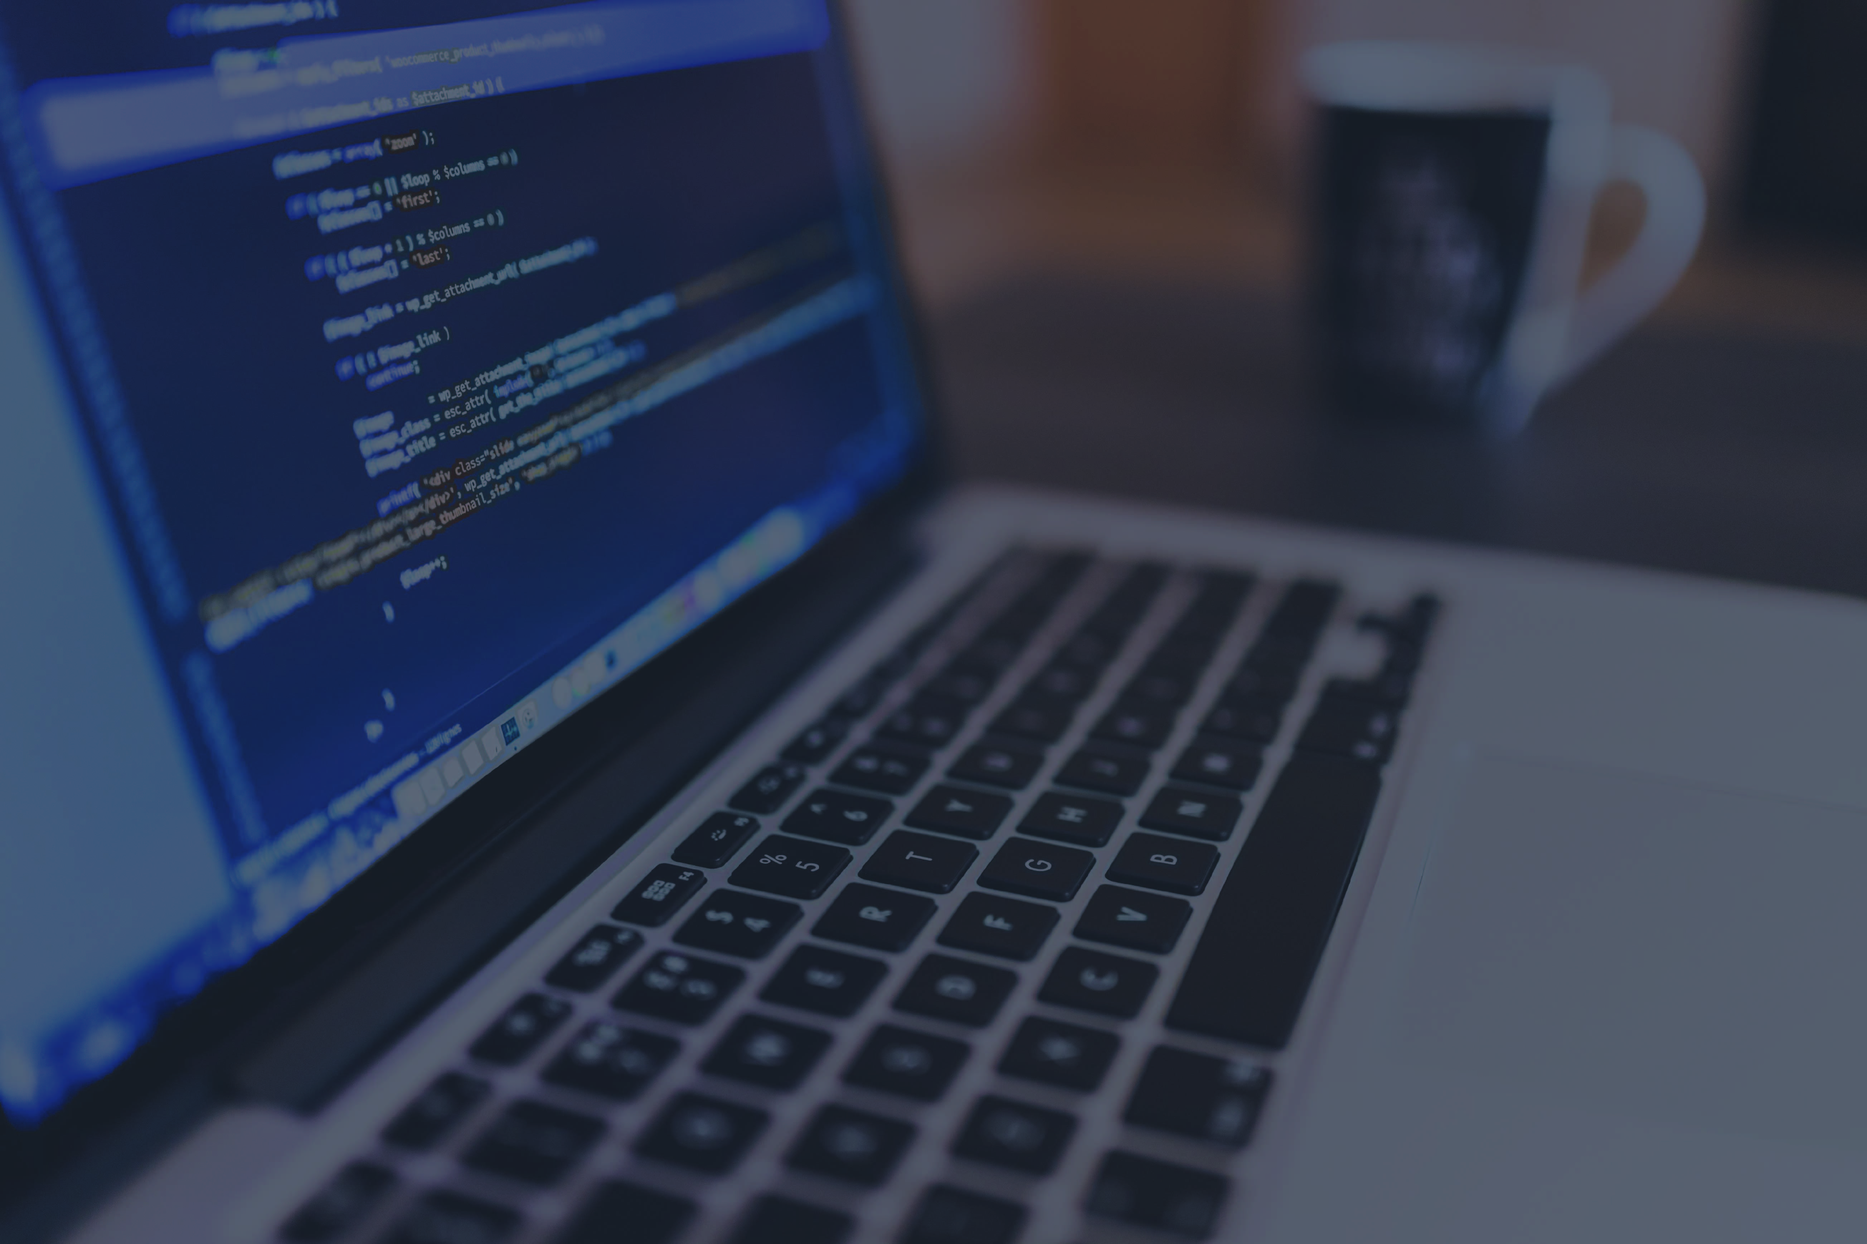
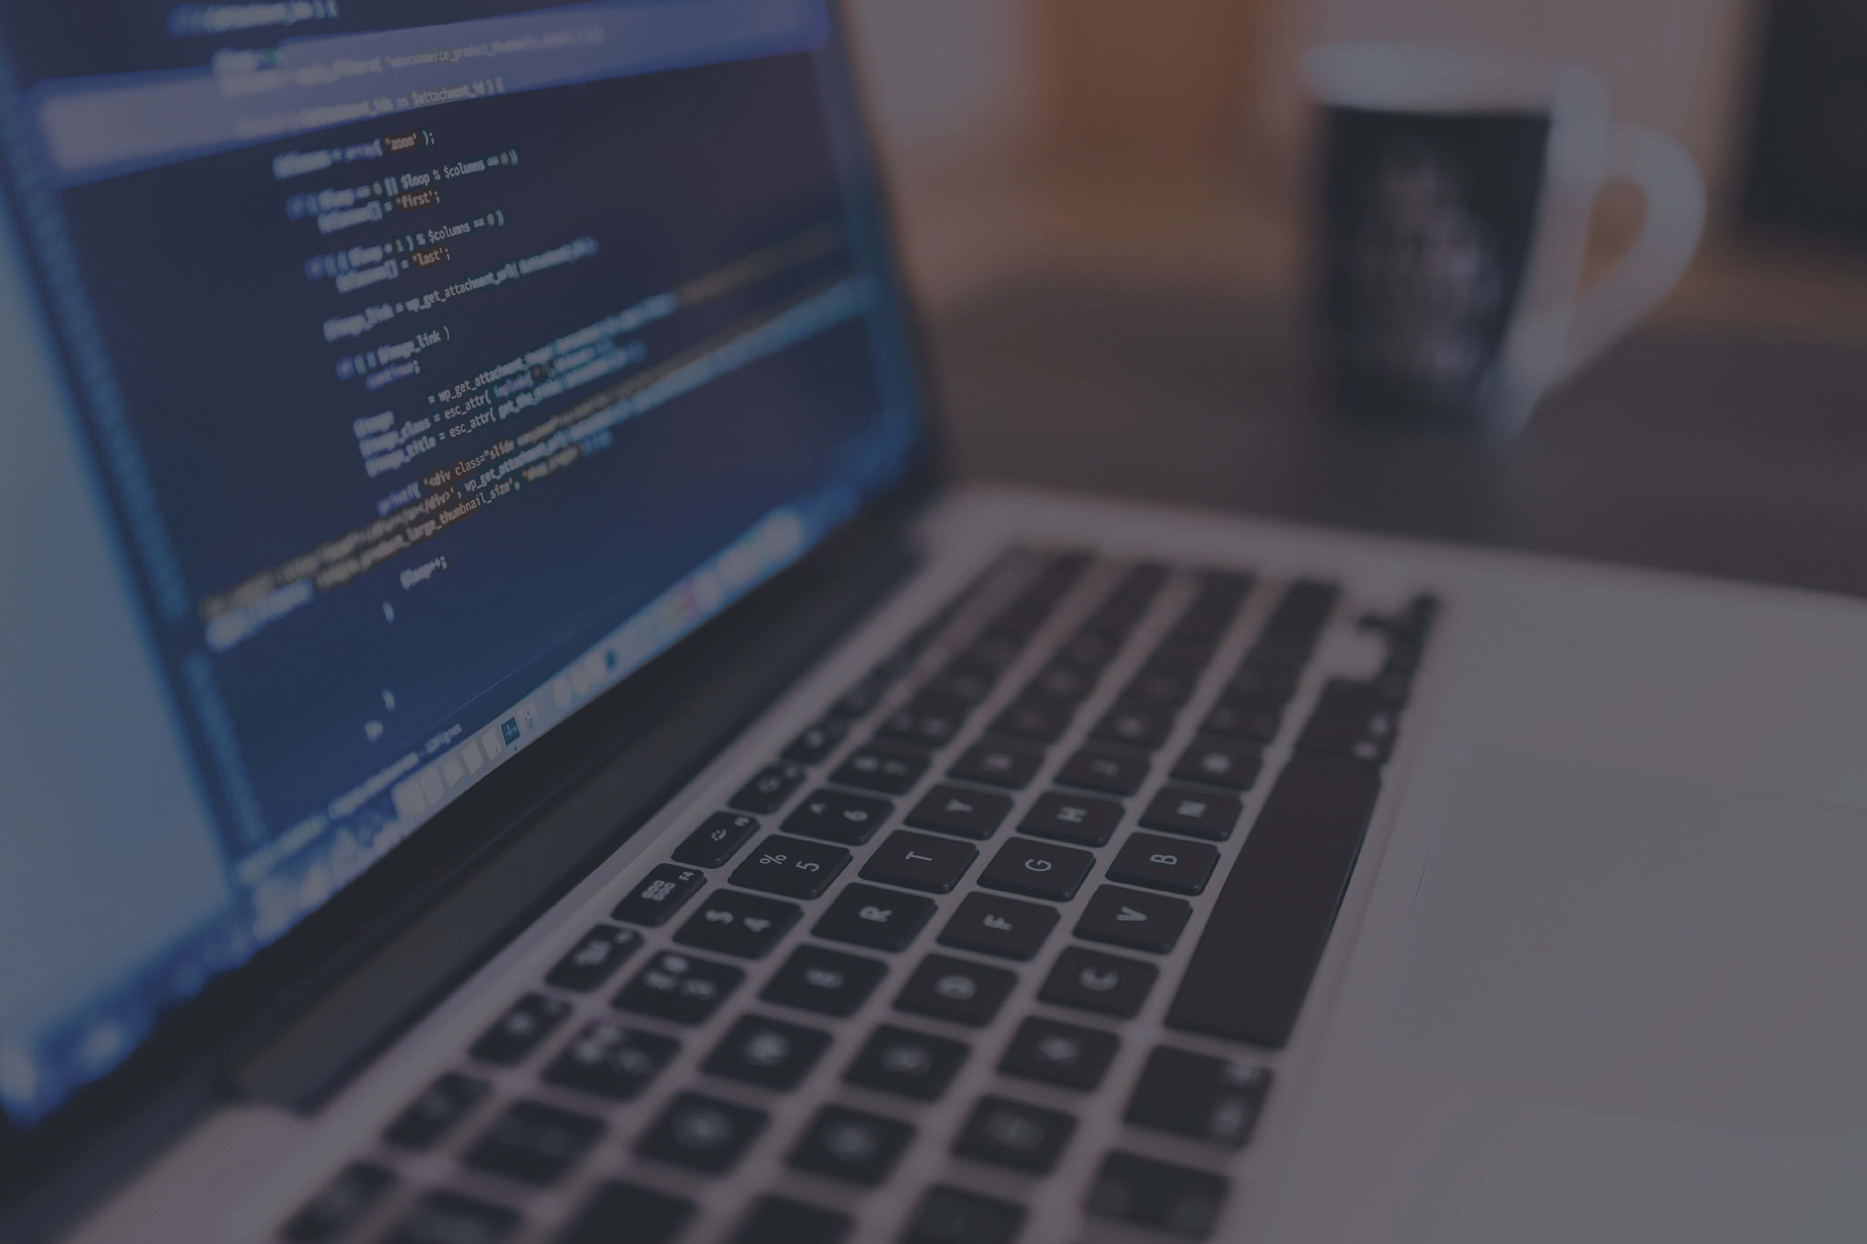
Design and text changes, some images compression, some link http to https changes

Changed region(s): [[0.4062, 0.0311, 0.4375, 0.0621], [0.1875, 0.2796, 0.2188, 0.3106], [0.0, 0.0621, 0.0312, 0.0932]]

diff --git a/index.html b/index.html
@@ -9,14 +9,14 @@
     <!-- Information for SEO Purposes -->
 	<title>Kourken Kasbarian | Front-End Web Developer</title>
 	<meta name="description" content="Kourken Kasbarian: My Personal Portfolio site. I'm a Front-End Web Developer and work with technologies like HTML, CSS/SCSS/SASS, Javascript, PHP, WordPress, Git/Github and more. contact me if you have any requests.">
-    <meta name="keywords" content="Kourken, Kasbarian, Kourken Kasbarian, Armenia, Kourken Kasbarian Portfolio, Portfolio, Front-End Web Developer, Web Developer, Front-End, HTML, CSS, JavaScript, Git, Github, PHP, WordPress">
-    	<meta name="url" content="http://www.kkasbarian.com">
-    	<meta name="copyright" content="kourkenkasbarian">
-    	<meta name="google-site-verification" content="mBwwrhrb4TTTf-TETdgdFQFVNxKRUyHVC9IaJByhZhk" />
+    <meta name="keywords" content="Kourken, Kasbarian, Kourken Kasbarian, Armenia, Kourken Kasbarian Portfolio, Portfolio, Front-End Web Developer, Web Developer, Armenian Web Developer, Front-End, HTML, CSS, JavaScript, Git, Github, PHP, WordPress">
+    <meta name="url" content="https://www.kkasbarian.com">
+    <meta name="copyright" content="kourkenkasbarian">
+    <meta name="google-site-verification" content="mBwwrhrb4TTTf-TETdgdFQFVNxKRUyHVC9IaJByhZhk" />
 
     <!-- Images and Aestetchics -->
     <link rel="icon" href="images/logo.png" type="image/gif" sizes="16x16">
-    <link rel="image_src" href="images/website-mockup.jpg"> <!-- Add the new website mockup -->
+    <link rel="image_src" href=""> <!-- Add the new website mockup -->
     <meta name="theme-color" content="#1058a4">
 
     <!-- Fonts and Icons Libraries -->
@@ -31,7 +31,7 @@
     <link rel="stylesheet" href="css/style.css">
     
     <!-- Facebook Summary Card -->
-    <meta property="og:url" content="http://www.kkasbarian.com">
+    <meta property="og:url" content="https://www.kkasbarian.com">
     <meta property="og:title" content="Kourken Kasbarian - Portfolio">
     <meta property="og:description" content="Kourken Kasbarian: My Personal Portfolio site. I'm a Front-End Web Developer and work with technologies like HTML, CSS/SCSS/SASS, Javascript, PHP, WordPress, Git/Github and more. contact me if you have any requests.">
     <meta property="og:image" content="images/bg.jpg">
@@ -43,18 +43,6 @@
     <meta name="twitter:title" content="Kourken Kasbarian - Portfolio">
     <meta name="twitter:description" content="Kourken Kasbarian: My Personal Portfolio site. I'm a Front-End Web Developer and work with technologies like HTML, CSS/SCSS/SASS, Javascript, PHP, WordPress, Git/Github and more. contact me if you have any requests.">
     <meta name="twitter:image" content="images/bg.jpg">
-
-    <!-- Google reCAPTCHA -->
-    <script src='https://www.google.com/recaptcha/api.js'></script>
-
-    <!-- JS Main File and JS Libraries -->
-    <script src="https://ajax.googleapis.com/ajax/libs/jquery/3.3.1/jquery.min.js"></script>
-    <script src="js/jquery-scrolltofixed.js" type="text/javascript"></script>
-    <script src="js/jquery.introLoader.pack.min.js" type="text/javascript"></script>
-    <script src="https://cdnjs.cloudflare.com/ajax/libs/wow/1.1.2/wow.min.js" type="text/javascript"></script>
-    <script src="js/typed.js" type="text/javascript"></script>
-    <script src="https://unpkg.com/sweet-scroll/sweet-scroll.min.js"></script>
-    <script src="js/main.js" type="text/javascript"></script>
 </head>
 <body>
     
@@ -83,7 +71,7 @@
             <li><a href="#about" data-scroll>About</a></li>
             <li><a href="#services" data-scroll>Services</a></li>
             <li><a href="#portfolio" data-scroll>Portfolio</a></li>
-            <li><a href="#contact" data-scroll>Hire Me</a></li>
+            <li><a href="#contact" data-scroll>Contact</a></li>
             <li><a href="https://blog.kkasbarian.com" target="_blank">Blog</a></li>
         </ul>
     </nav>
@@ -99,7 +87,7 @@
                 <li><a href="#about" data-scroll>About</a></li>
                 <li><a href="#services" data-scroll>Services</a></li>
                 <li><a href="#portfolio" data-scroll>Portfolio</a></li>
-                <li><a href="#contact" data-scroll>Hire Me</a></li>
+                <li><a href="#contact" data-scroll>Contact</a></li>
                 <li><a href="https://blog.kkasbarian.com" target="_blank">Blog</a></li>
             </ul>
         </div>
@@ -110,9 +98,8 @@
         <h3 class="animated wow bounceInUp" data-wow-duration="2s" data-wow-delay="1s">I'm a Front-End Web Developer</h3>
         <h1 class="animated wow bounceInUp" data-wow-duration="2s" data-wow-delay="1.5s">I'll build something <span>helpful</span> for <span>you</span> and for your <span>business</span>.</h1>
         <div class="typing">
-            <!-- <span class="autotype">I'm a </span><span class="type-element"></span><span class="typed-cursor"></span> -->
         </div>
-        <a href="#contact" data-scroll class="hire animated wow bounceInUp" data-wow-duration="2s" data-wow-delay="2s">Hire me</a>
+        <a href="#contact" data-scroll class="hire animated wow bounceInUp" data-wow-duration="2s" data-wow-delay="2s">Get in touch</a>
         <a href="#about" data-scroll class="down-arrow"><i class="fas fa-arrow-circle-down"></i></a>
     </section>
 
@@ -139,7 +126,7 @@
         </div>
     </div>
     <div class="about-btns">
-        <a href="http://www.kkasbarian.com/resume/" target="_blank">My Resume <span>&#9944;</span></a>
+        <a href="https://www.kkasbarian.com/resume/" target="_blank">My Resume <span>&#9944;</span></a>
         <a href="#services" data-scroll>Services &amp; Skills &#8595;</a></button>
     </div>
 </section> <!-- END About Section -->
@@ -154,9 +141,11 @@
             <p>Quality is the first thing that I think of while working on a project.</p>
         </div>
         <div class="animated wow slideInLeft">
-            <i class="fas fa-mobile"></i>
-            <i class="fas fa-tablet"></i>
-            <i class="fas fa-desktop"></i>
+            <section>
+                <i class="fas fa-mobile"></i>
+                <i class="fas fa-tablet"></i>
+                <i class="fas fa-desktop"></i>
+            </section>
             <h2>Responsive Websites</h2>
             <p>Responsive and mobile-first are my goals while making a website because most traffic comes from mobile devices.</p>
         </div>
@@ -181,7 +170,10 @@
             <p>From building your website to maintaining the availability and performance of it, rest assured you're all covered.</p>
         </div>
         <div class="animated wow slideInRight">
-            <i class="fas fa-users"></i><i class="fas fa-code-branch"></i>
+            <section>
+                <i class="fas fa-users"></i>
+                <i class="fas fa-code-branch"></i>
+            </section>
             <h2>Collaborative Skills</h2>
             <p>Always-learning, hard-working and meeting the deadlines are a must.</p>
         </div>
@@ -263,42 +255,42 @@
     <h1>Portfolio</h1>
     <div class="flex-portfolio">
         <div class="animated wow slideInUp">
-            <a href="http://www.kkasbarian.com/30Days30Sites/"><img src="images/30d30s.png" title="30Days30Sites Projects" alt="30Days30Sites Projects"></a>
-            <a href="http://www.kkasbarian.com/30Days30Sites/"><h2>30Days30Sites</h2></a>
+            <a href="https://www.kkasbarian.com/30Days30Sites/"><img src="images/30d30s.png" title="30Days30Sites Projects" alt="30Days30Sites Projects"></a>
+            <a href="https://www.kkasbarian.com/30Days30Sites/"><h2>30Days30Sites</h2></a>
             <p>Check out all my finished projects..</p>
         </div>
         <div class="animated wow slideInUp">
-            <a href="http://www.kkasbarian.com/fcc-challenges"><img src="images/fcc.png" title="FreeCodeCamp Challenges" alt="FreeCodeCamp Challenges"></a>
-            <a href="http://www.kkasbarian.com/fcc-challenges/"><h2>FreeCodeCamp Challenges</h2></a>
+            <a href="https://www.kkasbarian.com/fcc-challenges"><img src="images/fcc.png" title="FreeCodeCamp Challenges" alt="FreeCodeCamp Challenges"></a>
+            <a href="https://www.kkasbarian.com/fcc-challenges/"><h2>FreeCodeCamp Challenges</h2></a>
             <p>Check out my FCC projects.</p>
         </div>
         <div class="animated wow slideInUp">
             <a href="https://kkasbarian.github.io/google-clone/" target="_blank"><img src="images/google-clone.jpg" title="Google Clone" alt="Google Clone"></a>
-            <a href="http://www.kkasbarian.com/google-clone/"><h2>Google Clone</h2></a>
+            <a href="https://www.kkasbarian.com/google-clone/"><h2>Google Clone</h2></a>
             <p>A SASS project where I built Google Search Clone with working modals. Links and search don't work. Just made the Front-End part.</p>
         </div>
         <div class="animated wow slideInUp">
-            <a href="http://www.kkasbarian.com/30Days30Sites/Photographer/index.html" target="_blank"><img src="images/photo-site.jpg" title="Fashion Site" alt="Fashion Site"></a>
+            <a href="https://www.kkasbarian.com/30Days30Sites/Photographer/index.html" target="_blank"><img src="images/photo-site.jpg" title="Fashion Site" alt="Fashion Site"></a>
             <h2>Photography Website</h2>
             <p>This is a cool responsive photography website.</p>
         </div>
         <div class="animated wow slideInUp">
-            <a href="http://www.kkasbarian.com/30Days30Sites/Fashion-Site/index.html" target="_blank"><img src="images/fashion-site.jpg" title="Fashion Site" alt="Fashion Site"></a>
+            <a href="https://www.kkasbarian.com/30Days30Sites/Fashion-Site/index.html" target="_blank"><img src="images/fashion-site.jpg" title="Fashion Site" alt="Fashion Site"></a>
             <h2>Fashion Site</h2>
             <p>A minimal, modern and responsive website.</p>
         </div>
         <div class="animated wow slideInUp">
-            <a href="http://www.kkasbarian.com/30Days30Sites/Digital-Agency/index.html" target="_blank"><img src="images/digital-agency-site.jpg" title="Digital Agency Website" alt="Digital Agency Website"></a>
+            <a href="https://www.kkasbarian.com/30Days30Sites/Digital-Agency/index.html" target="_blank"><img src="images/digital-agency-site.jpg" title="Digital Agency Website" alt="Digital Agency Website"></a>
             <h2>Digital Agency Website</h2>
             <p>An amazing, sleek-looking and responsive digital agency website, which is the best that I made so far.</p>
         </div>
     </div>
-    <a href="#contact" data-scroll class="hire-btn">Hire Me &#8595;</a>
+    <a href="#contact" data-scroll class="hire-btn">Get in touch &#8595;</a>
 </section> <!-- END Portfolio Section -->
             
 <!-- Contact Section -->
 <section id="contact">
-    <h1>Hire Me</h1>
+    <h1>Let's Get in Touch Now</h1>
     <p>If you want a responsive website or a redesign of your current site, WordPress website development or just a meeting for a job opportunity, shoot me an email below and I'll get back to you ASAP:</p>
     <div class="flex-contact">
         <form id="gform" method="POST" action="https://script.google.com/macros/s/AKfycbySzom4kJVSFwVvjVaEyxQpHHBztfND3xnWhr4zHtrLx_TLNAoR/exec">
@@ -427,6 +419,17 @@
 <!-- Go to top button -->
 <button type="button" name="top" id="myBtn"><a href="#" data-scroll><img src="images/up.png" alt="Go to top"></a></button>
 
+<!-- Google reCAPTCHA -->
+<script src='https://www.google.com/recaptcha/api.js'></script>
+
+<!-- JS Main File and JS Libraries -->
+<script src="https://ajax.googleapis.com/ajax/libs/jquery/3.3.1/jquery.min.js"></script>
+<script src="js/jquery-scrolltofixed.js" type="text/javascript"></script>
+<script src="js/jquery.introLoader.pack.min.js" type="text/javascript"></script>
+<script src="https://cdnjs.cloudflare.com/ajax/libs/wow/1.1.2/wow.min.js" type="text/javascript"></script>
+<script src="https://unpkg.com/sweet-scroll/sweet-scroll.min.js"></script>
+<script src="js/main.js" type="text/javascript"></script>
+<script src="js/dynamic.js" type="text/javascript"></script>
 
 <!--***** Form and G Analytics Scripts *****-->
 
@@ -440,8 +443,6 @@
     }
 </script>
 
-<script src="js/dynamic.js" type="text/javascript"></script>
-
 <!-- Google Analytics -->
 <script>
     (function(i,s,o,g,r,a,m){i['GoogleAnalyticsObject']=r;i[r]=i[r]||function(){
@@ -451,5 +452,6 @@
     ga('create', 'UA-102627507-1', 'auto');
     ga('send', 'pageview');
 </script>
+
 </body>
 </html>

diff --git a/privacy.html b/privacy.html
@@ -11,12 +11,12 @@
 	<title>Kourken Kasbarian - Portfolio | Front-End Web Developer | Privacy Policy</title>
 	<meta name="description" content="Kourken Kasbarian: My Personal Portfolio site. I'm a Front-End Web Developer and work with technologies like HTML, CSS/SCSS/SASS, Javascript, PHP, WordPress, Git/Github and more. contact me if you have any requests.">
     <meta name="keywords" content="Kourken, Kasbarian, Kourken Kasbarian, Armenia, Kourken Kasbarian Portfolio, Portfolio, Front-End Web Developer, Web Developer, Front-End, HTML, CSS, JavaScript, Git, Github, PHP, WordPress">
-    <meta name="url" content="http://www.kkasbarian.com">
+    <meta name="url" content="https://www.kkasbarian.com">
     <meta name="copyright" content="kourkenkasbarian">
 
     <!-- Images and Aestetchics -->
     <link rel="icon" href="images/logo.png" type="image/gif" sizes="16x16">
-    <link rel="image_src" href="images/website-mockup.jpg">
+    <link rel="image_src" href="">
     <meta name="theme-color" content="#1058a4">
 
     <!-- Fonts and Icons Libraries -->
@@ -28,14 +28,6 @@
     <link rel="stylesheet" href="https://cdnjs.cloudflare.com/ajax/libs/animate.css/3.5.2/animate.min.css">
     <link rel="stylesheet" href="css/introLoader.min.css">
     <link rel="stylesheet" href="css/style.css">
-
-    <!-- JS Main File and JS Libraries -->
-    <script src="https://ajax.googleapis.com/ajax/libs/jquery/3.3.1/jquery.min.js"></script>
-    <script src="js/jquery-scrolltofixed.js" type="text/javascript"></script>
-    <script src="js/jquery.introLoader.pack.min.js" type="text/javascript"></script>
-    <script src="https://cdnjs.cloudflare.com/ajax/libs/wow/1.1.2/wow.min.js" type="text/javascript"></script>
-    <script src="https://unpkg.com/sweet-scroll/sweet-scroll.min.js"></script>
-    <script src="js/main.js" type="text/javascript"></script>
 </head>
 
 <body>
@@ -145,6 +137,13 @@
 <!-- Go to top button -->     
 <button type="button" name="top" id="myBtn"><a href="#" data-scroll><img src="images/up.png" alt="Go to top"></a></button>
 
+<!-- JS Main File and JS Libraries -->
+<script src="https://ajax.googleapis.com/ajax/libs/jquery/3.3.1/jquery.min.js"></script>
+<script src="js/jquery-scrolltofixed.js" type="text/javascript"></script>
+<script src="js/jquery.introLoader.pack.min.js" type="text/javascript"></script>
+<script src="https://cdnjs.cloudflare.com/ajax/libs/wow/1.1.2/wow.min.js" type="text/javascript"></script>
+<script src="https://unpkg.com/sweet-scroll/sweet-scroll.min.js"></script>
+<script src="js/main.js" type="text/javascript"></script>
 <script src="js/dynamic.js" type="text/javascript"></script>
 
 </body>

diff --git a/credits.html b/credits.html
@@ -11,12 +11,12 @@
 	<title>Kourken Kasbarian - Portfolio | Front-End Web Developer | Credits</title>
 	<meta name="description" content="Kourken Kasbarian: My Personal Portfolio site. I'm a Front-End Web Developer and work with technologies like HTML, CSS/SCSS/SASS, Javascript, PHP, WordPress, Git/Github and more. contact me if you have any requests.">
     <meta name="keywords" content="Kourken, Kasbarian, Kourken Kasbarian, Armenia, Kourken Kasbarian Portfolio, Portfolio, Front-End Web Developer, Web Developer, Front-End, HTML, CSS, JavaScript, Git, Github, PHP, WordPress">
-    <meta name="url" content="http://www.kkasbarian.com">
+    <meta name="url" content="https://www.kkasbarian.com">
     <meta name="copyright" content="kourkenkasbarian">
 
     <!-- Images and Aestetchics -->
     <link rel="icon" href="images/logo.png" type="image/gif" sizes="16x16">
-    <link rel="image_src" href="images/website-mockup.jpg">
+    <link rel="image_src" href="">
     <meta name="theme-color" content="#1058a4">
 
     <!-- Fonts and Icons Libraries -->
@@ -28,14 +28,6 @@
     <link rel="stylesheet" href="https://cdnjs.cloudflare.com/ajax/libs/animate.css/3.5.2/animate.min.css">
     <link rel="stylesheet" href="css/introLoader.min.css">
     <link rel="stylesheet" href="css/style.css">
-
-    <!-- JS Main File and JS Libraries -->
-    <script src="https://ajax.googleapis.com/ajax/libs/jquery/3.3.1/jquery.min.js"></script>
-    <script src="js/jquery-scrolltofixed.js" type="text/javascript"></script>
-    <script src="js/jquery.introLoader.pack.min.js" type="text/javascript"></script>
-    <script src="https://cdnjs.cloudflare.com/ajax/libs/wow/1.1.2/wow.min.js" type="text/javascript"></script>
-    <script src="https://unpkg.com/sweet-scroll/sweet-scroll.min.js"></script>
-    <script src="js/main.js" type="text/javascript"></script>
 </head>
 
 <body>
@@ -160,6 +152,13 @@
 <!-- Go to top button -->
 <button type="button" name="top" id="myBtn"><a href="#" data-scroll><img src="images/up.png" alt="Go to top"></a></button>
 
+<!-- JS Main File and JS Libraries -->
+<script src="https://ajax.googleapis.com/ajax/libs/jquery/3.3.1/jquery.min.js"></script>
+<script src="js/jquery-scrolltofixed.js" type="text/javascript"></script>
+<script src="js/jquery.introLoader.pack.min.js" type="text/javascript"></script>
+<script src="https://cdnjs.cloudflare.com/ajax/libs/wow/1.1.2/wow.min.js" type="text/javascript"></script>
+<script src="https://unpkg.com/sweet-scroll/sweet-scroll.min.js"></script>
+<script src="js/main.js" type="text/javascript"></script>
 <script src="js/dynamic.js" type="text/javascript"></script>
 
 </body>

diff --git a/css/style.css b/css/style.css
@@ -532,7 +532,12 @@ img { max-width: 100%; }
 }
  
 #services .flex-services div {
+    height: 350px;
     flex-basis: 22%;
+    display: flex;
+    flex-direction: column;
+    justify-content: center;
+    align-items: center;
     padding: 30px 14px;
     margin: 20px 0;
     background: #fff;
@@ -581,7 +586,7 @@ img { max-width: 100%; }
 }
 
 #services .flex-services p {
-    text-align: justify;
+    text-align: left;
     font-size: 16px;
     font-family: 'Poppins', arial, sans-serif;
     font-weight: 400;
@@ -1248,13 +1253,22 @@ img { max-width: 100%; }
 
 @media screen and (max-width: 450px) {
     #upwork-hire div {
-        text-align: left;
+        text-align: center;
+        margin: 0 auto;
+    }
+
+    #upwork-hire div:first-child {
         width: 80%;
-	margin: 0 auto;
+        margin-bottom: 20px;
+    }
+
+    #upwork-hire div:last-child {
+        width: 90%;
     }
 	
     #upwork-hire h1 {
-	text-align: left;
+        text-align: center;
+        font-size: 30px;
     }
 }
 
@@ -1549,7 +1563,7 @@ footer.copy p a:hover { opacity: 1; }
 }
 
 /* Typing JS */
-#banner .typing { margin-bottom: 15px; }
+/* #banner .typing { margin-bottom: 15px; }
 
 #banner .autotype {
     font-size: 20px;
@@ -1599,7 +1613,7 @@ footer.copy p a:hover { opacity: 1; }
     #banner .autotype {
         font-size: 30px;
     }
-}
+} */
 
 /* Scroll to Top Button */
 #myBtn {

diff --git a/js/dynamic.js b/js/dynamic.js
@@ -1,6 +1,6 @@
 /* Dynamic Last Updated Date */
 
 var lastUpdate = document.getElementById("last-update");
-lastUpdate.innerHTML = "Last Updated: 03/08/2018";
+lastUpdate.innerHTML = "Last Updated: 29/08/2018";
 
 /* END Dynamic Last Updated Date */

diff --git a/README.md b/README.md
@@ -46,6 +46,8 @@ My Official Portfolio Website: [Kourken Kasbarian](http://www.kkasbarian.com/)
 
 3.3: Another small update, added a blog link to my navigations and made the Last Updated text dynamic (only change date once in JS for all pages instead of changing the dates in each page).
 
+3.4: Small update, where I did some minor design and text changes, compressed some images, changed some http links to https.
+
 ## Feedback:
 
 If you encounter any bugs or want to give a feedback, request a project, I'll be glad if you reach out to me from my site or on my Socials.
